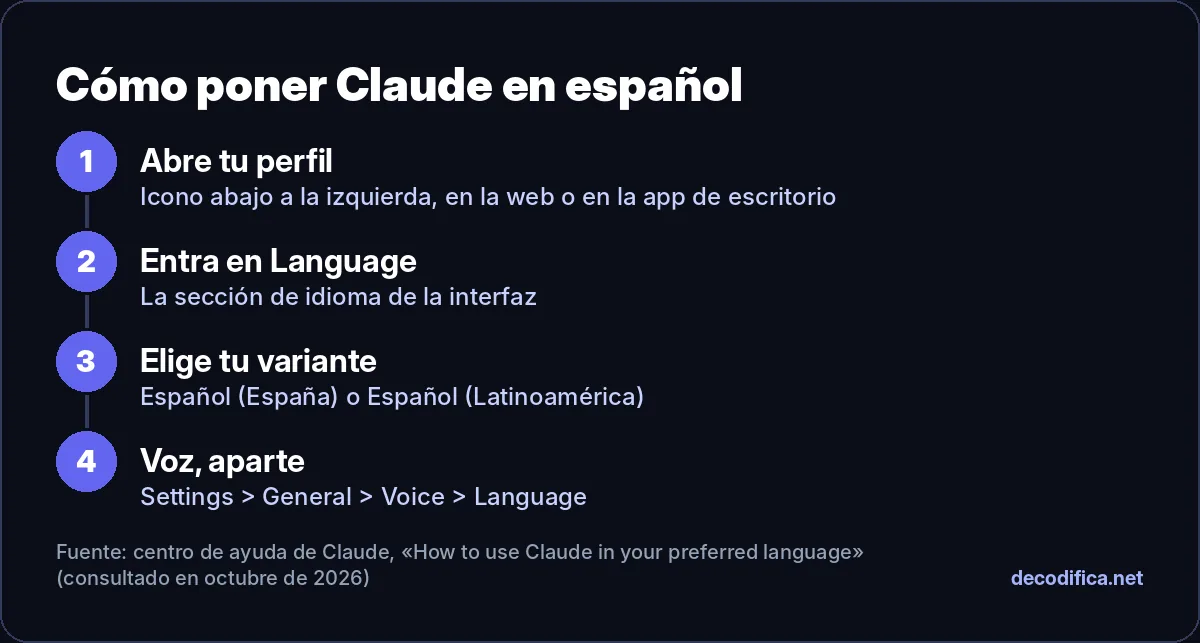
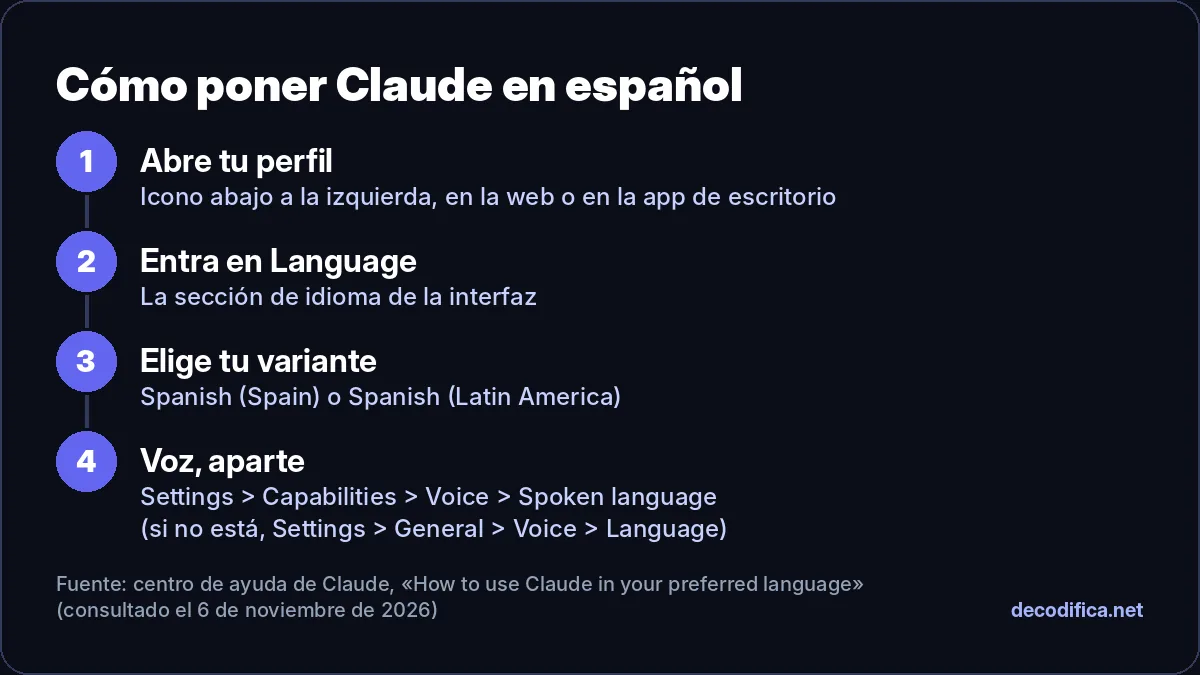
Guía de Claude: esquema de pasos con la ruta nueva del idioma de la voz
Claude-Session: https://claude.ai/code/session_012nLXgG8mkn3uYwC5xpJEU5

diff --git a/_ESTADO.md b/_ESTADO.md
@@ -210,4 +210,4 @@ Rama `agente/para-las-ia`. Reglas nuevas para los agentes en `docs/AGENTE-SEMANA
 - **05-11-2026 (agente de los jueves):** rama `agente/jueves-2026-11-05`, pull request #45 (espera a Jordi). Títulos, descripciones, preguntas frecuentes y enlaces nuevos en Gamma vs Canva AI (qué da gratis cada una: 400 créditos de Gamma, IA limitada de Canva; precios de Canva; idioma), ficha de Granola (gratis con 30 días de historial, español, sin bot, en el móvil no capta videollamadas) y ficha de Fathom (grabaciones ilimitadas gratis, precios, español, ahora parte de Superhuman). Las dos fichas se enlazan entre sí y desde «Resumir una reunión con IA». Juez de fuentes pasado en las tres. Repaso: `docs/repaso-jueves/2026-11-05.md`.
   - Medir hacia el 14-12-2026, pero solo si Google ha vuelto a leer las páginas: ninguna página de los jueves anteriores se había rastreado después de cambiarla (Gamma vs Canva no se leía desde el 12-08, así que su bajada no fue por el título del 07-10).
   - Pendiente: precios de Gamma (su página pide comprobación anti-robots); «Qué hemos probado» en «Resumir una reunión con IA» (aviso del preflight, regla 3); alternativas gratis a ChatGPT necesita datos al día de las 7 IA (repaso del 20-11).
-- **06-11-2026 (agente de novedades):** rama `agente/novedad-2026-11-06`, pull request #46 (espera a Jordi). Novedad: Finanzas personales en Claude («Personal Finance», 05-11-2026: conectar banco, tarjetas, préstamos e inversiones con acceso de solo lectura vía Plaid; beta solo en EE. UU., Pro, Max y Ultra), añadida como sección a la guía `claude-ia-que-es-gratis` (respuesta corta, captura, qué datos ve, privacidad, cómo probarlo, alternativa desde España, pregunta frecuente; `modifiedDate` 06-11). Juez de fuentes pasado (de paso, arreglados datos antiguos de la guía: Duet con Ultra, rutas de ajustes, precios sin «moneda local»; falta rehacer el esquema `claude-en-espanol-pasos.webp` con la ruta nueva de la voz). Nota: `docs/novedades/2026-11-06.md`. Sin guion de reel (no se puede usar en España ni en Latinoamérica). Para el lunes: ChatGPT Images 2.6 con GIF en el plan gratis (04-11) podría ser un reel si se abre la fuente de OpenAI (hoy da 403).
+- **06-11-2026 (agente de novedades):** rama `agente/novedad-2026-11-06`, pull request #46. Novedad: Finanzas personales en Claude («Personal Finance», 05-11-2026: conectar banco, tarjetas, préstamos e inversiones con acceso de solo lectura vía Plaid; beta solo en EE. UU., Pro, Max y Ultra), añadida como sección a la guía `claude-ia-que-es-gratis` (respuesta corta, captura, qué datos ve, privacidad, cómo probarlo, alternativa desde España, pregunta frecuente; `modifiedDate` 06-11). Juez de fuentes pasado (de paso, arreglados datos antiguos de la guía: Duet con Ultra, rutas de ajustes, precios sin «moneda local»). Fusionado el mismo día a petición de Jordi (publicado y comprobado en línea). Esquema `claude-en-espanol-pasos.webp` rehecho también el 06-11 con la ruta nueva de la voz (rama `agente/imagen-claude-voz-2026-11-06`, a petición de Jordi). Nota: `docs/novedades/2026-11-06.md`. Sin guion de reel (no se puede usar en España ni en Latinoamérica). Para el lunes: ChatGPT Images 2.6 con GIF en el plan gratis (04-11) podría ser un reel si se abre la fuente de OpenAI (hoy da 403).

diff --git a/docs/novedades/2026-11-06.md b/docs/novedades/2026-11-06.md
@@ -77,8 +77,8 @@ guía; como la guía cambia de fecha de revisión, se arreglaron hoy:
 3. «Abre una conversación nueva para cada tema» no estaba en la guía de límites: quitado.
 4. Ruta de la memoria: arreglado (Settings > Your Claude; antes Settings > Memory).
 5. Ruta del idioma de la voz: arreglado en el texto (Settings > Capabilities > Voice > Spoken language, y la antigua como
-   alternativa). **No arreglado:** el esquema `claude-en-espanol-pasos.webp` sigue con la ruta antigua (sigue
-   funcionando como alternativa); que lo rehaga el agente del lunes.
+   alternativa). El esquema `claude-en-espanol-pasos.webp` se rehízo el mismo día, a
+   petición de Jordi (rama `agente/imagen-claude-voz-2026-11-06`), con la ruta nueva y la antigua como alternativa.
 6. Página de personalización: añadida a «Fuentes» y ruta de las instrucciones al día (Settings > Your Claude >
    Instructions; antes Settings > Account > Instructions for Claude).
 7. Fecha de la pregunta frecuente de Pro: arreglado (2 de noviembre de 2026).
